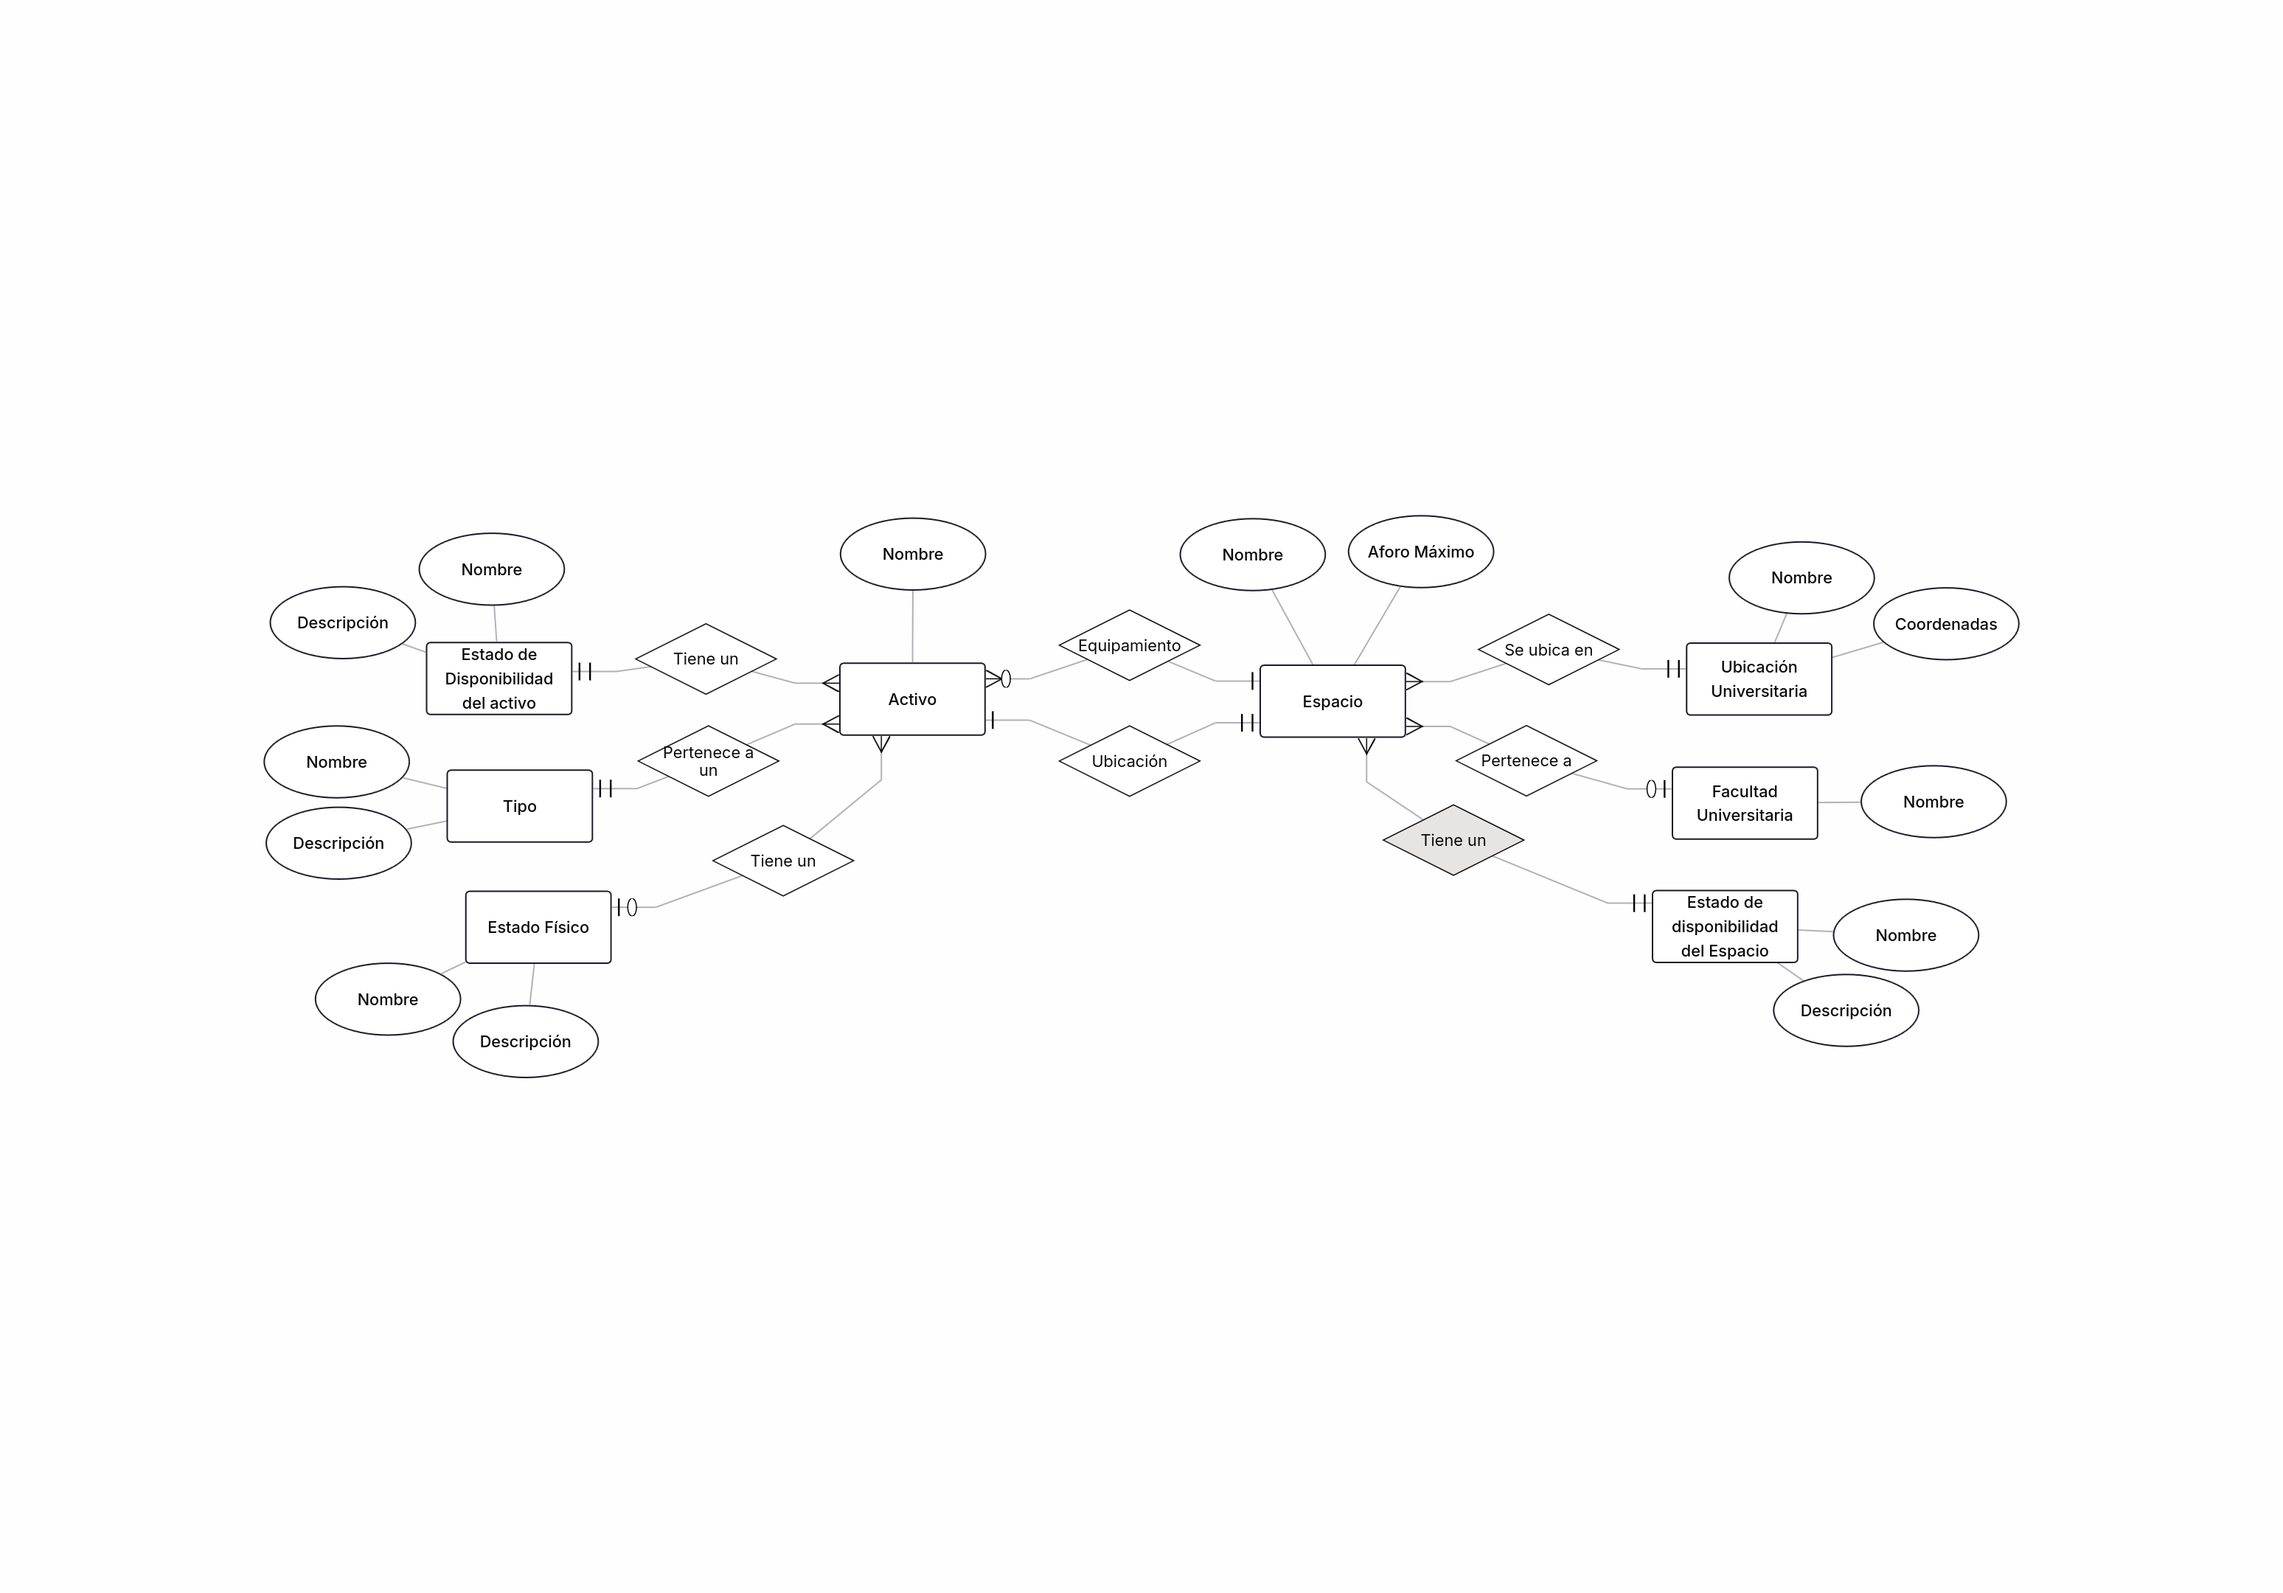
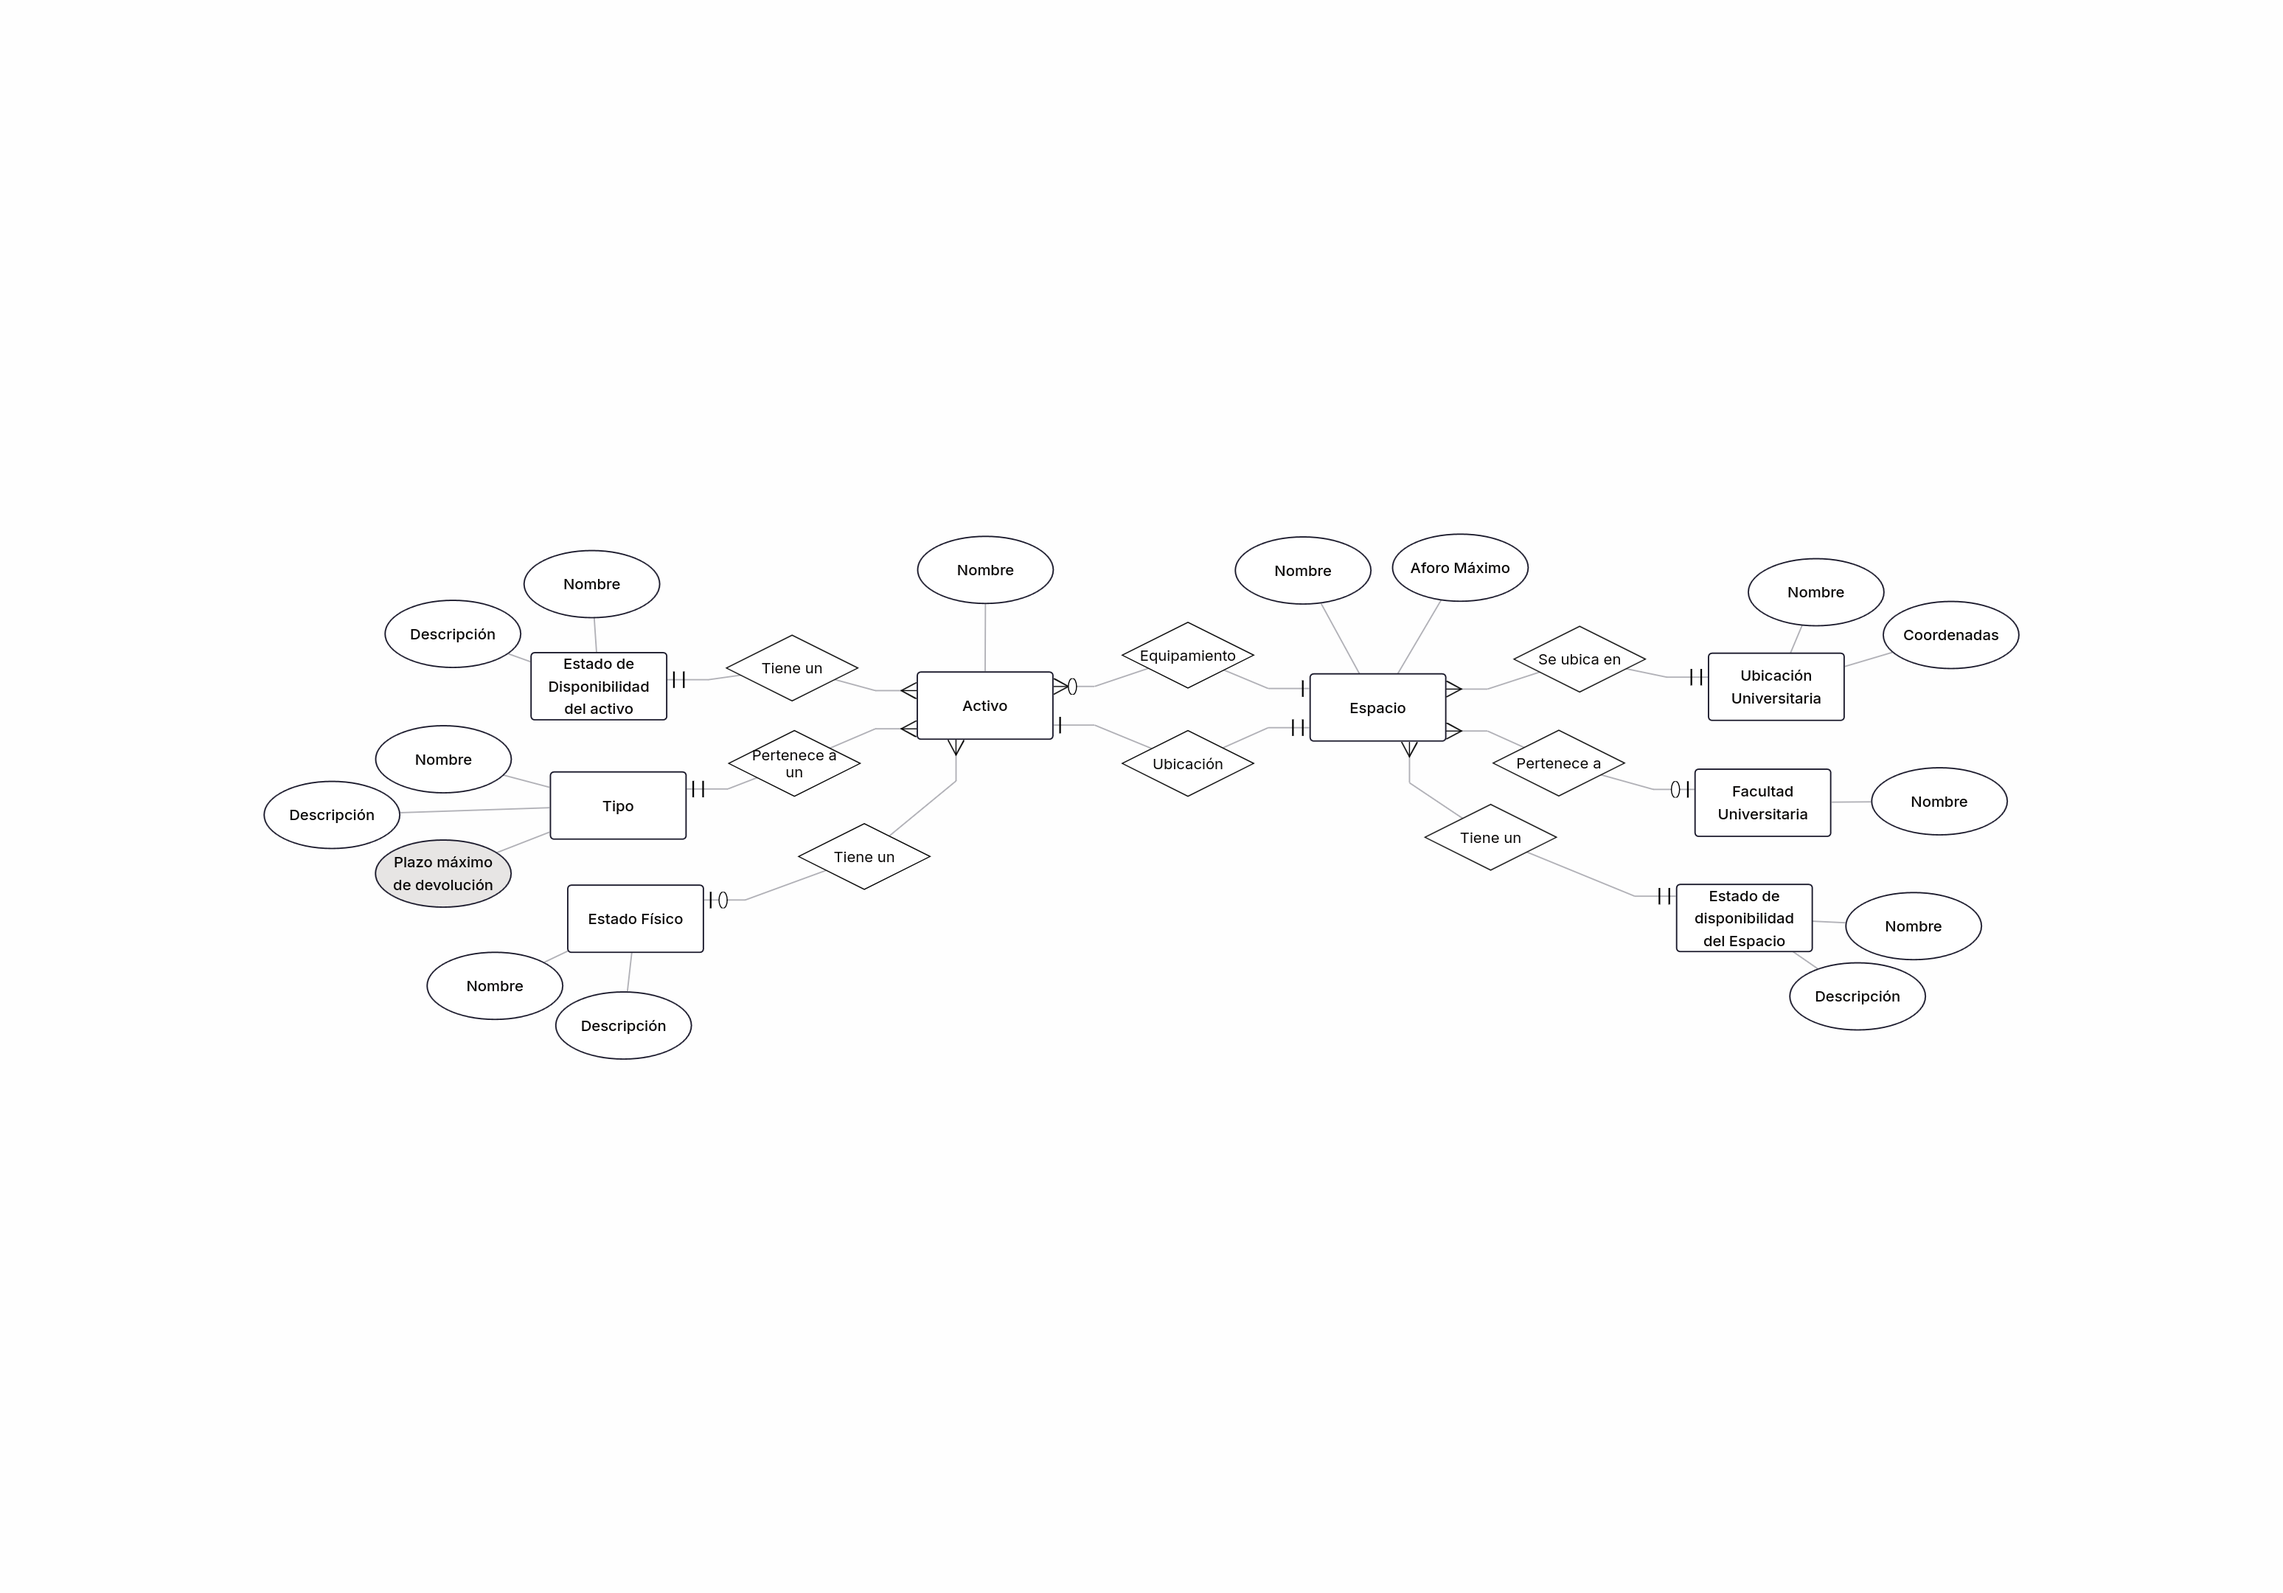
fix: "plazo maximo de devolucion" added as attribute in spec0-2 and entity-relationship diagram

diff --git a/specs/SPEC-HISTORIA0.md b/specs/SPEC-HISTORIA0.md
@@ -59,8 +59,8 @@ El sistema debe implementar paginación para tener un limite de resultados inmed
 
 ### Key Entities *(include if feature involves data)*
 
-- **[Entity 1]**: [Activo] [ID, nombre, tipo {enlazado a una categoria}, estado físico{enlazado a una categoria}, ubicacion{enlazado a un Espacio}]
-- **[Entity 2]**: [Espacio] [ID, nombre, aforo maximo, equipamiento{enlazado a varios Activos}, ubicacion{enlazado a su propia entidad}, facultad{enlazado a su propia entidad} ]
+- **[Entity 1]**: [Activo] [ID, nombre, tipo {enlazado a una categoria}, estado físico{enlazado a una categoria}, ubicacion{enlazado a un Espacio}, estado de disponibilidad, plazo máximo de devolución]
+- **[Entity 2]**: [Espacio] [ID, nombre, aforo maximo, equipamiento{enlazado a varios Activos}, ubicacion{enlazado a su propia entidad}, facultad{enlazado a su propia entidad}, estado de disponibilidad ]
 - **[Entity 3]**: [tipo-Activo] [ID, nombre, descripcion] #####################NEEDS CLARIFICATION##########################
 - **[Entity 4]**: [ubicacion] [ID, nombre, descripcion] {identidad que categoriza los espacios}
 - **[Entity 5]**: [facultad] [ID, nombre, descripcion]

diff --git a/specs/SPEC-HISTORIA1.md b/specs/SPEC-HISTORIA1.md
@@ -96,9 +96,9 @@ El sistema debe ejecutar una reversión atómica (rollback) garantizando que no 
 
 ### Key Entities *(include if feature involves data)*
 
-- **[Entity 1]**: [Activo] [ID / Placa de inventario, nombre, tipo {enlazado a tipo-Activo}, estado físico, ubicación {enlazado a espacio}, estado de disponibilidad inicial (ej. Disponible)]
+- **[Entity 1]**: [Activo] [ID, nombre, tipo {enlazado a una categoria}, estado físico{enlazado a una categoria}, ubicacion{enlazado a un Espacio}, estado de disponibilidad, plazo máximo de devolución]
 
-- **[Entity 2]**: [Espacio] [ID, nombre, aforo máximo, equipamiento {enlazado a activo o catálogo de equipamiento}, ubicación {enlazado a su propia entidad}, facultad {enlazado a su propia entidad}, estado de disponibilidad inicial (ej. Disponible)]
+- **[Entity 2]**: [Espacio] [ID, nombre, aforo maximo, equipamiento{enlazado a varios Activos}, ubicacion{enlazado a su propia entidad}, facultad{enlazado a su propia entidad}, estado de disponibilidad ]
 
 - **[Entity 3]**: [tipo-Activo] [ID, nombre, descripción]
 

diff --git a/specs/SPEC-HISTORIA2.md b/specs/SPEC-HISTORIA2.md
@@ -66,9 +66,9 @@ El sistema debe manejar filtros parciales, ignorando los criterios vacíos y apl
 
 ### Key Entities *(include if feature involves data)*
 
-- **[Entity 1]**: [Activo] [ID, nombre, tipo {enlazado a tipo-Activo}, estado físico, ubicación {enlazado a espacio}, estado de disponibilidad]
+- **[Entity 1]**: [Activo] [ID, nombre, tipo {enlazado a una categoria}, estado físico{enlazado a una categoria}, ubicacion{enlazado a un Espacio}, estado de disponibilidad, plazo máximo de devolución]
 
-- **[Entity 2]**: [Espacio] [ID, nombre, aforo máximo, equipamiento {enlazado a activo}, ubicación {enlazado a su propia entidad}, facultad {enlazado a su propia entidad}]
+- **[Entity 2]**: [Espacio] [ID, nombre, aforo maximo, equipamiento{enlazado a varios Activos}, ubicacion{enlazado a su propia entidad}, facultad{enlazado a su propia entidad}, estado de disponibilidad ]
 
 - **[Entity 3]**: [tipo-Activo] [ID, nombre, descripción]
 
